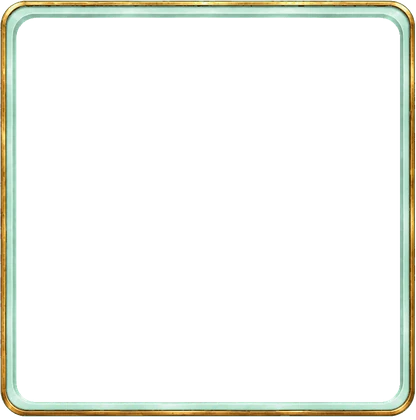
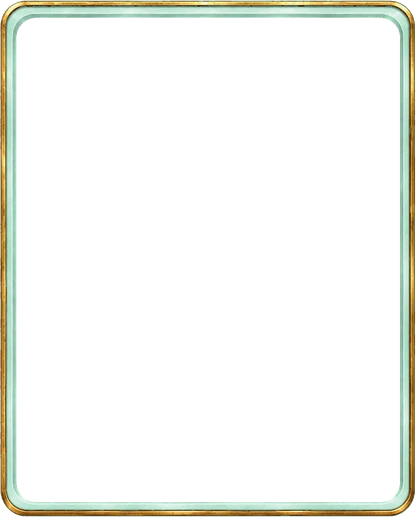
手札の技カードを少し縦長に（208×260）
Claude-Session: https://claude.ai/code/session_01GPUK2xfRGHPH9SktmiU15X

diff --git a/src/ui/components/skillCard.ts b/src/ui/components/skillCard.ts
@@ -15,7 +15,7 @@ import { fitValueFont } from './valueFit.ts';
  * 重ね順：イラスト（窓いっぱい・はみ出しは切る）→ 枠 → マナの丸・分類の印・ダメージの四角・技名・効果の帯（ゲーム側で描く。画像に焼き込まない）
  * - 枠：assets/images/ui/skillcard_simple/frame_{size}_{モンスター}.webp（モンスターごとに1枚。サポートは frame_{size}_support.webp の銀）。
  *   LAYOUT の2倍の大きさ。npm run art:skillframes（tools/art/skillcard_simple_build.py）で作り直す
- * - 'normal'（縦長 253×382）：図鑑・詳しい表示・大きなカード。'hand'（ほぼ正方形 208×210）：対戦の手札・守備のカードなど小さな表示。
+ * - 'normal'（縦長 253×382）：図鑑・詳しい表示・大きなカード。'hand'（少し縦長 208×260）：対戦の手札・守備のカードなど小さな表示。
  *   手札は名前・効果の帯を出さず、マナ・印・ダメージを重ねたときに見える左35%に置く
  * - ダメージの四角：攻撃＝大きな数字だけ、防御＝軽減値の数字だけ（-3）、回避＝「回避」、特殊＝「効果」（skillValueBadge）、サポート＝区分
  * - 効果の帯：防御・回避・特殊・サポートは説明の文、攻撃は追加の効果のときだけ（skillBandText）
@@ -53,7 +53,8 @@ interface FrameLayout {
 /** 枠の中の位置（枠の絵の 1/4 の画素。design-parts/ui-skillcard-simple-20261028/ref/layout_positions.png） */
 const LAYOUT: Readonly<Record<SkillCardSize, FrameLayout>> = {
   normal: { w: 253, h: 382, art: [13, 40, 240.5, 371.25], name: [58, 9, 240, 34], mana: [31, 26, 24], icon: [31, 63, 21], value: [13, 315, 69, 371.25], band: [73, 336, 236, 367] },
-  hand: { w: 208, h: 210, art: [8.5, 9.5, 199.5, 200.5], name: null, mana: [34, 34, 27], icon: [34, 84, 37], value: [8.5, 140.5, 68.5, 200.5], band: null },
+  // 手札：2026-10-29 ユーザー「もう少し縦長にしてOK」で 208×210 → 208×260（下のふちの位置を 50 下げただけ。マナ・印は今のまま）
+  hand: { w: 208, h: 260, art: [8.5, 9.5, 199.5, 250.5], name: null, mana: [34, 34, 27], icon: [34, 84, 37], value: [8.5, 190.5, 68.5, 250.5], band: null },
 };
 
 const FRAME_URLS = import.meta.glob<string>('/assets/images/ui/skillcard_simple/frame_*.webp', { eager: true, query: '?url', import: 'default' });

diff --git a/tests/skillFrames.test.ts b/tests/skillFrames.test.ts
@@ -25,7 +25,7 @@ function pngSize(path: string): [number, number] {
 }
 
 describe('技・サポートカードの枠（新しい形）', () => {
-  it('原本は LAYOUT（253×382・208×210）のちょうど4倍。届いたままの絵も保管してある', () => {
+  it('原本は 253×382・208×210 のちょうど4倍（手札は 208×260 に縦にのばして使う）。届いたままの絵も保管してある', () => {
     expect(pngSize(`${ORIGINAL}/frame_normal_simple.png`)).toEqual([1012, 1528]);
     expect(pngSize(`${ORIGINAL}/frame_hand_simple.png`)).toEqual([832, 840]);
     for (const k of ['normal', 'hand']) expect(existsSync(`${ORIGINAL}/original/frame_${k}_simple_as_delivered.png`)).toBe(true);
@@ -38,8 +38,8 @@ describe('技・サポートカードの枠（新しい形）', () => {
     for (const size of ['normal', 'hand']) expect(existsSync(`${DIR}/frame_${size}_support.webp`)).toBe(true);
   });
 
-  it('大きさは LAYOUT の2倍（506×764・416×420）', () => {
-    for (const f of frames) expect(webpSize(`${DIR}/${f}`)).toEqual(f.startsWith('frame_normal') ? [506, 764] : [416, 420]);
+  it('大きさは LAYOUT の2倍（506×764・416×520）', () => {
+    for (const f of frames) expect(webpSize(`${DIR}/${f}`)).toEqual(f.startsWith('frame_normal') ? [506, 764] : [416, 520]);
   });
 
   it('前の枠（v5 の分類の色の枠）・数字の入ったマナの玉の絵は残っていない', () => {

diff --git a/tools/art/skillcard_simple_build.py b/tools/art/skillcard_simple_build.py
@@ -23,7 +23,11 @@ from PIL import Image
 ROOT = Path(__file__).resolve().parents[2]
 SRC = ROOT / 'design-parts/ui-skillcard-simple-20261028/frames'
 OUT = ROOT / 'assets/images/ui/skillcard_simple'
-GAME_SIZE = {'normal': (253, 382), 'hand': (208, 210)}
+GAME_SIZE = {'normal': (253, 382), 'hand': (208, 260)}
+# 手札の枠：届いた絵は 208×210（ほぼ正方形）。2026-10-29 ユーザー「もう少し縦長にしてOK」で 208×260 にする。
+# 角の飾りは変えず、上下の角のあいだのまっすぐなふち（原本の y HAND_STRETCH）だけを縦にのばす（描き直しはしない）
+HAND_SRC_H = 210
+HAND_STRETCH = (120, 720)
 SCALE = 2
 WEBP_QUALITY = 90
 
@@ -75,14 +79,28 @@ def shrink(arr: np.ndarray, size: tuple[int, int]) -> Image.Image:
     return Image.fromarray(np.clip(arr, 0, 255).astype('uint8'), 'RGBA').convert('RGBa').resize(size, Image.LANCZOS).convert('RGBA')
 
 
+def stretch_middle(im: Image.Image, height: int, band: tuple[int, int]) -> Image.Image:
+    """上下の端（角の飾り）はそのままに、band の行だけを縦にのばして height にする"""
+    a, b = band
+    mid = im.crop((0, a, im.width, b)).resize((im.width, b - a + height - im.height), Image.BICUBIC)
+    out = Image.new('RGBA', (im.width, height))
+    out.alpha_composite(im.crop((0, 0, im.width, a)), (0, 0))
+    out.alpha_composite(mid, (0, a))
+    out.alpha_composite(im.crop((0, b, im.width, im.height)), (0, a + mid.height))
+    return out
+
+
 def main() -> None:
     OUT.mkdir(parents=True, exist_ok=True)
     for old in OUT.glob('frame_*.webp'):
         old.unlink()
     for kind, (w, h) in GAME_SIZE.items():
         src_im = Image.open(SRC / f'frame_{kind}_simple.png').convert('RGBA')
-        if src_im.size != (w * 4, h * 4):
-            raise SystemExit(f'frame_{kind}_simple.png の大きさが {src_im.size}。ゲームの4倍 {(w * 4, h * 4)} であるはず')
+        src_h = HAND_SRC_H if kind == 'hand' else h
+        if src_im.size != (w * 4, src_h * 4):
+            raise SystemExit(f'frame_{kind}_simple.png の大きさが {src_im.size}。ゲームの4倍 {(w * 4, src_h * 4)} であるはず')
+        if kind == 'hand' and h != src_h:
+            src_im = stretch_middle(src_im, h * 4, HAND_STRETCH)
         src = np.array(src_im).astype(float)
         size = (w * SCALE, h * SCALE)
         shrink(src, size).save(OUT / f'frame_{kind}_support.webp', quality=WEBP_QUALITY, method=6)

diff --git a/docs/cardshape-20261029.md b/docs/cardshape-20261029.md
@@ -19,7 +19,7 @@
   - ダメージの四角：ほぼ黒・右上だけ丸い。攻撃＝数字だけ（「ダメージ」の字は消した）／防御＝軽減値の数字だけ（-3。2026-10-29 ユーザー「盾のアイコン不要」）／回避＝「回避」／特殊＝「効果」／サポート＝区分
   - 名前：白い太い字に濃い縁取り（札なし）。縦長のカードで幅70以上ならいつも出す（図鑑の小さなカードでも帯が空にならないように）
   - 効果の帯（大きなカードだけ）：防御・回避・特殊・サポートは説明の文、攻撃は追加の効果だけ（`cardTypes.ts` の `skillBandText`）。長い文は2行に収まる大きさまで小さく
-- **対戦の手札**：見本の「手札（案）」に合わせて、手札用のほぼ正方形の枠（名前の帯なし・絵がカードいっぱい）に変えた（`battleCard.ts` の 'tall'）。
+- **対戦の手札**：見本の「手札（案）」に合わせて手札用の枠（2026-10-29 ユーザー「もう少し縦長にしてOK」で 208×260。届いた正方形の枠の上下の角のあいだを縦にのばした）（名前の帯なし・絵がカードいっぱい）に変えた（`battleCard.ts` の 'tall'）。
   幅は今の 90 のまま。10枚で重なっても、1枚ずつ見える左35%にマナ・印・ダメージが入る。手札の印（灰色・金の光・水色の光）は今のまま効く
 - カード ID・数字・効果・セーブの形式は変えていない
 
